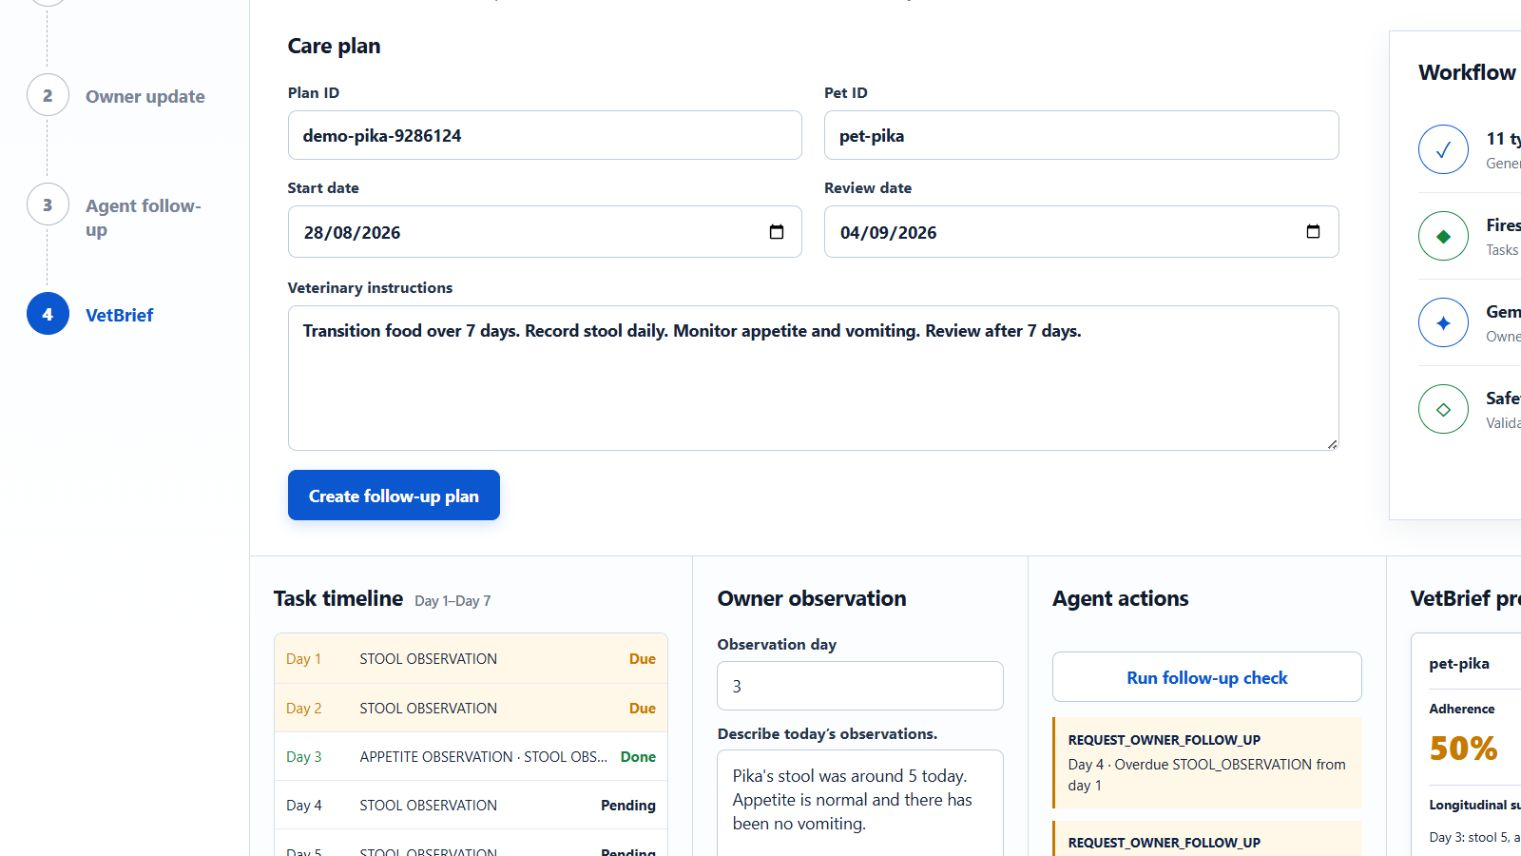
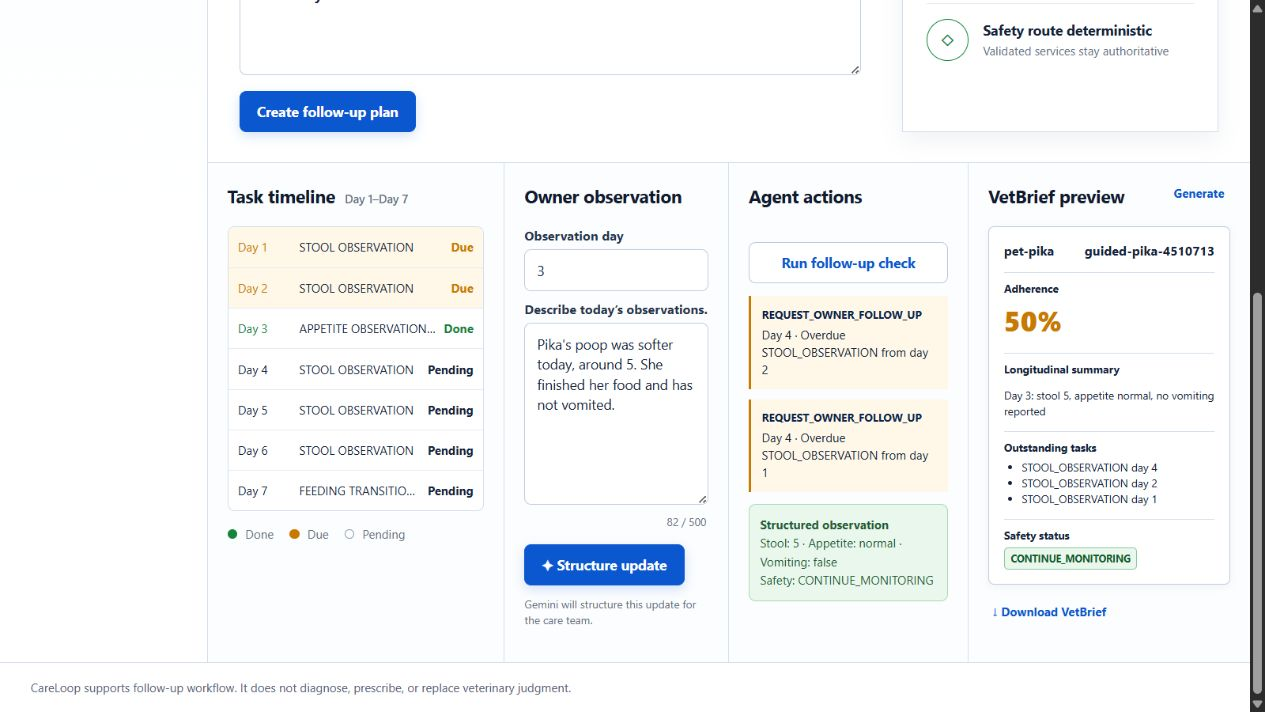
Add one-click guided cloud demo

diff --git a/app/static/app.js b/app/static/app.js
@@ -91,6 +91,73 @@ function renderBrief(brief) {
 
 function updateCounter() { $("#message-count").textContent = $("#owner-message").value.length; }
 
+const pause = (milliseconds) => new Promise((resolve) => setTimeout(resolve, milliseconds));
+
+$("#run-demo").addEventListener("click", async (event) => {
+  const button = event.currentTarget;
+  button.disabled = true;
+  $("#plan-id").value = `guided-pika-${Date.now().toString().slice(-7)}`;
+  $("#pet-id").value = "pet-pika";
+  $("#observation-day").value = "3";
+  $("#owner-message").value = "Pika's poop was softer today, around 5. She finished her food and has not vomited.";
+  updateCounter();
+  try {
+    state.planId = $("#plan-id").value;
+    state.petId = $("#pet-id").value;
+    state.renderedBrief = "";
+    $("#download-brief").disabled = true;
+
+    setNotice("Step 1/4 · Creating and persisting typed follow-up tasks…");
+    const created = await request("/plans", {
+      plan_id: state.planId,
+      pet_id: state.petId,
+      instructions: $("#instructions").value.trim(),
+      start_date: $("#start-date").value,
+      review_date: $("#review-date").value,
+    });
+    state.tasks = created.tasks;
+    $("#task-count").textContent = `${state.tasks.length} typed tasks`;
+    renderTimeline(state.tasks);
+    activateStep(1);
+    await pause(350);
+
+    setNotice("Step 2/4 · Gemini is structuring Pika’s owner update…");
+    const observed = await request("/observations", {
+      plan_id: state.planId,
+      pet_id: state.petId,
+      day: 3,
+      message: $("#owner-message").value,
+    });
+    state.observation = observed.observation;
+    state.tasks = observed.tasks;
+    renderTimeline(state.tasks);
+    const output = $("#structured-output");
+    output.hidden = false;
+    output.innerHTML = `<strong>Structured observation</strong><br>Stool: ${observed.observation.stool_score ?? "—"} · Appetite: ${observed.observation.appetite ?? "—"} · Vomiting: ${observed.observation.vomiting ?? "—"}<br>Safety: ${observed.safety.status}`;
+    activateStep(2);
+    await pause(350);
+
+    setNotice("Step 3/4 · Detecting missing actions and creating follow-up…");
+    const checked = await request("/follow-up/check", { plan_id: state.planId, current_day: 4 });
+    renderActions(checked.actions);
+    activateStep(2);
+    await pause(350);
+
+    setNotice("Step 4/4 · Building the professional VetBrief…");
+    const briefResult = await request("/vetbrief", { plan_id: state.planId, pet_id: state.petId, through_day: 4 });
+    renderBrief(briefResult.brief);
+    state.renderedBrief = briefResult.rendered;
+    $("#download-brief").disabled = false;
+    activateStep(3);
+    setNotice("Guided demo complete · Persistent task state, Gemini, agent follow-up, and VetBrief verified.", "success");
+    $("#brief-section").scrollIntoView({ behavior: "smooth", block: "center" });
+  } catch (error) {
+    setNotice(`Guided demo stopped · ${error.message}`, "error");
+  } finally {
+    button.disabled = false;
+  }
+});
+
 $("#plan-form").addEventListener("submit", async (event) => {
   event.preventDefault();
   const button = event.submitter;

diff --git a/app/static/styles.css b/app/static/styles.css
@@ -45,6 +45,10 @@ button { cursor: pointer; }
 .intro { display: flex; justify-content: space-between; align-items: flex-start; gap: 24px; padding: 30px 32px 24px; }
 .intro h1 { margin: 0 0 8px; color: #111b2e; font-size: clamp(24px, 2vw, 32px); line-height: 1.18; letter-spacing: -.55px; }
 .intro p { margin: 0; color: var(--muted); font-size: 15px; }
+.intro-actions { display: grid; justify-items: end; gap: 8px; }
+.demo-button { min-height: 36px; padding: 7px 12px; border: 1px solid var(--blue); border-radius: 7px; color: var(--blue); background: var(--white); font-size: 12px; font-weight: 750; }
+.demo-button:hover { background: var(--blue-soft); }
+.demo-button:disabled { cursor: wait; opacity: .62; }
 .notice { max-width: 310px; padding: 9px 12px; border: 1px solid var(--line); border-radius: 8px; color: var(--muted); background: var(--band); font-size: 13px; }
 .notice.success { color: var(--green); border-color: #a9d8b8; background: var(--green-soft); }
 .notice.error { color: #9b2c2c; border-color: #f1b1b1; background: #fff1f1; }
@@ -134,7 +138,8 @@ input:focus, textarea:focus { border-color: var(--blue); box-shadow: 0 0 0 3px r
   .rail-step::after { display: none; }
   .intro { display: block; padding: 23px 18px 19px; }
   .intro h1 { font-size: 25px; }
-  .notice { margin-top: 17px; }
+  .intro-actions { justify-items: stretch; margin-top: 17px; }
+  .notice { max-width: none; }
   .plan-grid { grid-template-columns: 1fr; padding: 0 18px 25px; }
   .field-grid { grid-template-columns: 1fr; }
   .workflow-board { grid-template-columns: 1fr; }

diff --git a/app/static/index.html b/app/static/index.html
@@ -30,7 +30,10 @@
           <h1>Turn a care plan into accountable follow-up.</h1>
           <p>Gemini structures owner updates. Deterministic services control tasks and safety.</p>
         </div>
-        <div id="notice" class="notice" role="status" aria-live="polite">Ready for a synthetic care plan.</div>
+        <div class="intro-actions">
+          <button id="run-demo" class="demo-button" type="button">▶ Run guided demo</button>
+          <div id="notice" class="notice" role="status" aria-live="polite">Ready for a synthetic care plan.</div>
+        </div>
       </section>
 
       <section class="plan-grid" id="plan-section">

diff --git a/tests/test_demo_ui.py b/tests/test_demo_ui.py
@@ -17,6 +17,7 @@ def test_root_serves_the_careloop_workflow_ui():
     assert "Structure update" in response.text
     assert "VetBrief preview" in response.text
     assert "Download VetBrief" in response.text
+    assert "Run guided demo" in response.text
 
 
 def test_observation_response_returns_updated_timeline_tasks(monkeypatch):

diff --git a/docs/demo_script_4min.md b/docs/demo_script_4min.md
@@ -4,22 +4,31 @@
 Veterinary follow-up is fragmented across conversations and memory. CareLoop turns a vet's plan into trackable owner actions and a concise professional follow-up brief.
 
 ## 0:30–1:05 — Vet creates plan
-Show Pika's seven-day transition plan. CareLoop decomposes it into structured follow-up tasks and persists them.
+Open the hosted root page and click **Run guided demo**. As Step 1 runs, show Pika's seven-day transition plan. CareLoop decomposes it into 11 structured follow-up tasks and persists them in Firestore.
 
 ## 1:05–1:45 — Owner reports naturally
-Enter: "Pika's poop was softer today, around 5. She finished her food and has not vomited."
-Show Gemini converting this into stool=5, appetite=normal, vomiting=false. Explain that model output is validated before state mutation.
+As Step 2 runs, show the seeded owner sentence: "Pika's poop was softer today, around 5. She finished her food and has not vomited."
+Show Gemini converting this into stool=5, appetite=normal, vomiting=false. Explain that model output is validated before state mutation and the observation is persisted.
 
 ## 1:45–2:25 — Agent acts
-Advance workflow time. Show overdue observations becoming `FOLLOW_UP_REQUIRED` and CareLoop emitting `REQUEST_OWNER_FOLLOW_UP`.
+As Step 3 runs, show overdue observations and CareLoop emitting `REQUEST_OWNER_FOLLOW_UP`.
 This is the agentic action: it changes workflow state and creates a next action rather than merely answering a question.
 
 ## 2:25–3:05 — Safety boundary
 Show deterministic routing. CareLoop does not diagnose or prescribe; concerning observations route to professional review.
 
 ## 3:05–3:35 — VetBrief
-Show adherence, longitudinal owner observations, missing actions, and review status in one concise brief.
+As Step 4 finishes, show adherence, longitudinal owner observations, missing actions, and review status in one concise brief. Click **Download VetBrief** to demonstrate the professional handoff artifact.
 
 ## 3:35–4:00 — Architecture + value
 Show Google ADK + Gemini 3.5+ + Firestore + Cloud Run architecture.
 Close with the three pilot KPIs: consultation follow-up time saved, home-to-clinic information completeness, and owner follow-up completion.
+
+## Recording guardrails
+
+- Use only the synthetic Pika fixture shown in the UI.
+- Start from a fresh page so the guided demo creates a unique plan ID.
+- Keep the notice area visible while each numbered step runs.
+- Do not cut away until the final notice says `Guided demo complete`.
+- Show `Cloud Connected` and `Firestore persisted` before starting.
+- If any step reports `Guided demo stopped`, stop recording and rerun from a fresh page; do not edit around a failed live call.

diff --git a/docs/demo_recording_checklist.md b/docs/demo_recording_checklist.md
@@ -1,0 +1,26 @@
+# Demo Recording Checklist
+
+## Before recording
+
+- Open the hosted root URL in a clean browser tab.
+- Confirm the header says `Cloud Connected`.
+- Confirm Workflow evidence says `Firestore persisted` and `Gemini 3.5 Flash`.
+- Use a 16:9 capture at 1440p or 1080p; browser zoom 100%.
+- Close notifications and unrelated tabs.
+- Do not display Cloud credentials, API keys, personal data, or real veterinary records.
+
+## One-click proof path
+
+1. Click `Run guided demo` once.
+2. Show 11 typed tasks appear in the Day 1–Day 7 timeline.
+3. Show Gemini structure stool=5, appetite=normal, vomiting=false.
+4. Show `REQUEST_OWNER_FOLLOW_UP` actions.
+5. Show the VetBrief timeline, outstanding tasks, adherence, and `CONTINUE_MONITORING`.
+6. Click `Download VetBrief` and mention that it contains the backend-rendered handoff.
+
+## Acceptance
+
+- Final notice: `Guided demo complete`.
+- No error or stopped state.
+- Safety disclaimer remains visible or is explicitly shown before closing.
+- Architecture and live-proof evidence are shown after the product workflow, not instead of it.

diff --git a/docs/current_ship_gate.md b/docs/current_ship_gate.md
@@ -20,6 +20,11 @@ Verified live on revision `canibiz-careloop-agent-00007-fvm`:
 - generated backend-rendered brief downloads as a plan-scoped `.txt` handoff
 - public runtime reports Firestore persistence
 
+Verified live on revision `canibiz-careloop-agent-00008-md6`:
+- one click executed all four real cloud stages without manual intervention
+- 11 tasks, Gemini structured observation, two follow-up actions, VetBrief, and download gate verified
+- refreshed `docs/evidence/live-ui-workflow.png` captures the completed guided demo
+
 Still required before final submission:
 1. public demo video URL
 2. final screenshots, including Cloud Run and Firestore console evidence

diff --git a/README.md b/README.md
@@ -76,6 +76,8 @@ http://127.0.0.1:8080/docs
 
 The root UI runs the complete care-plan → owner update → agent follow-up → VetBrief workflow against the same API used by the live proof.
 
+For a reproducible walkthrough, click `Run guided demo`. It executes the real four-stage cloud workflow once, stops on any error, and enables the VetBrief download only after completion.
+
 ## Google Cloud deployment
 
 Authenticate:
